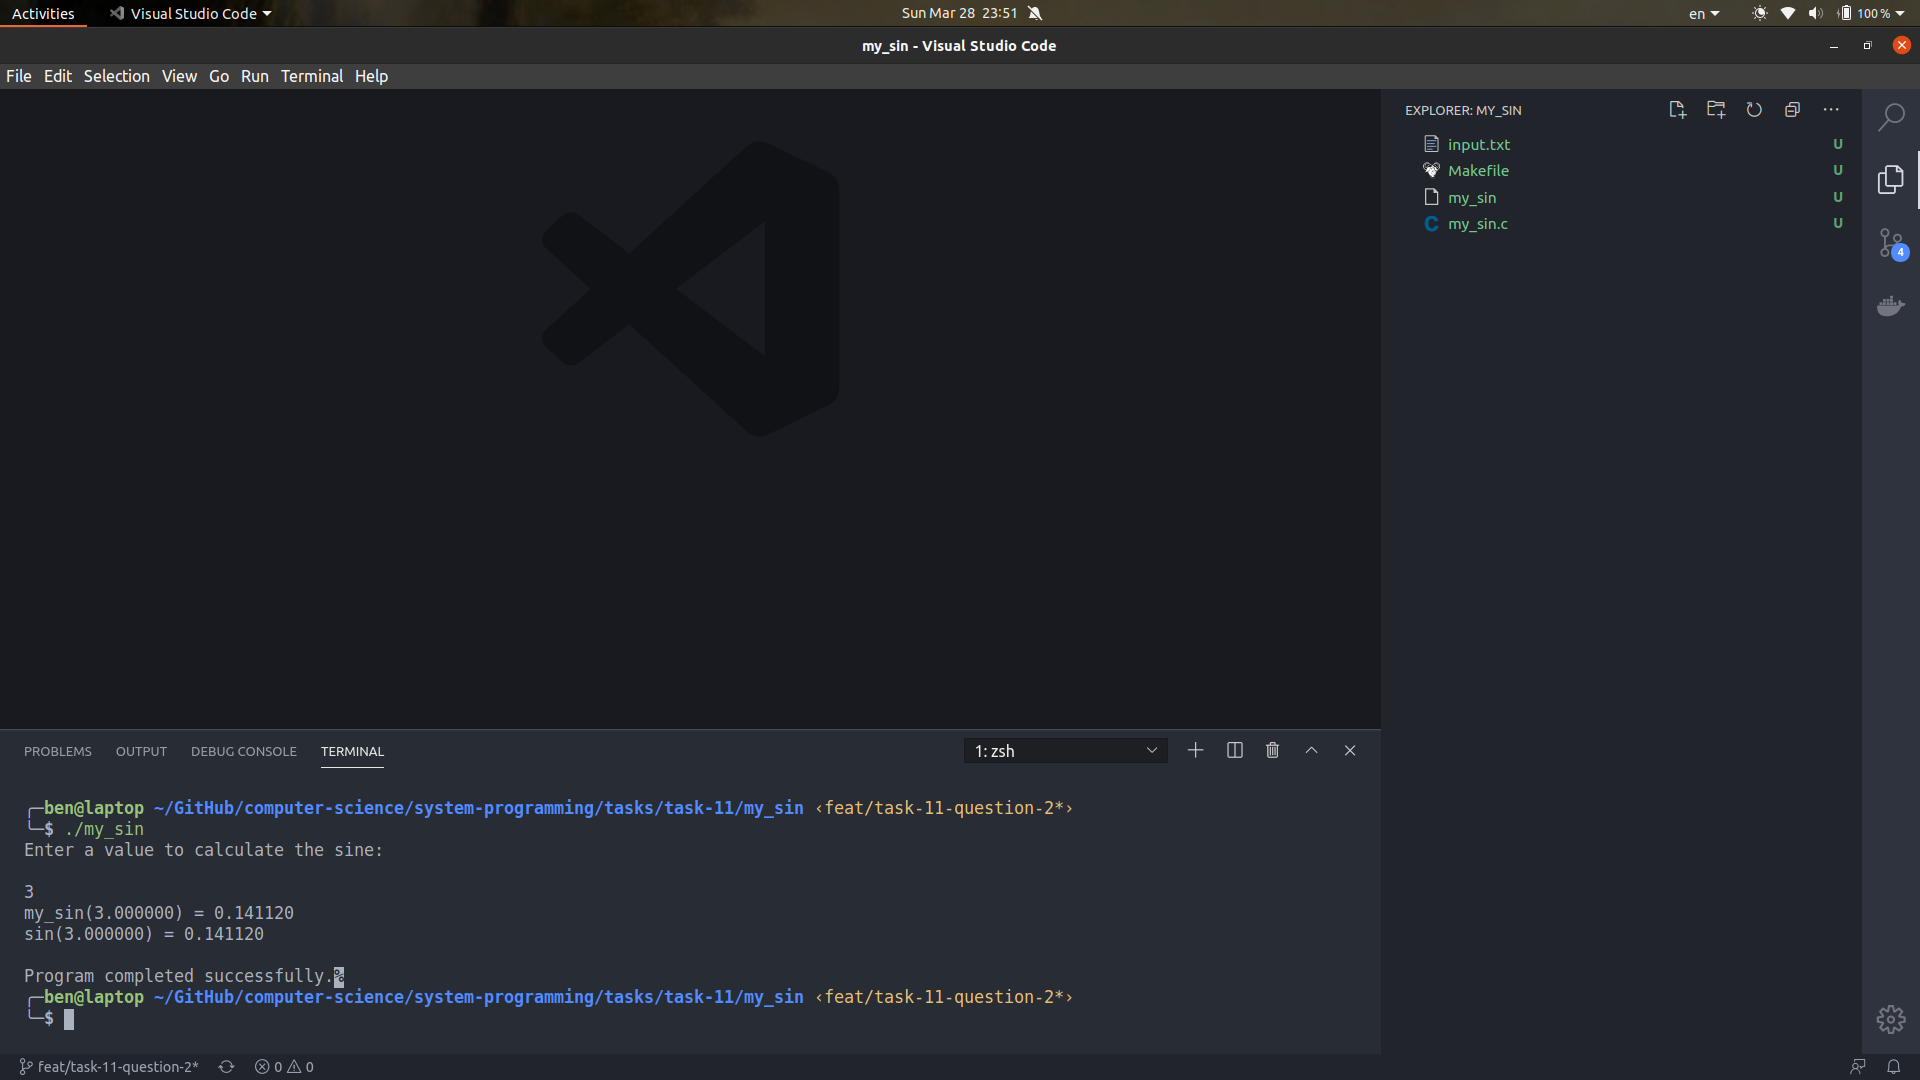
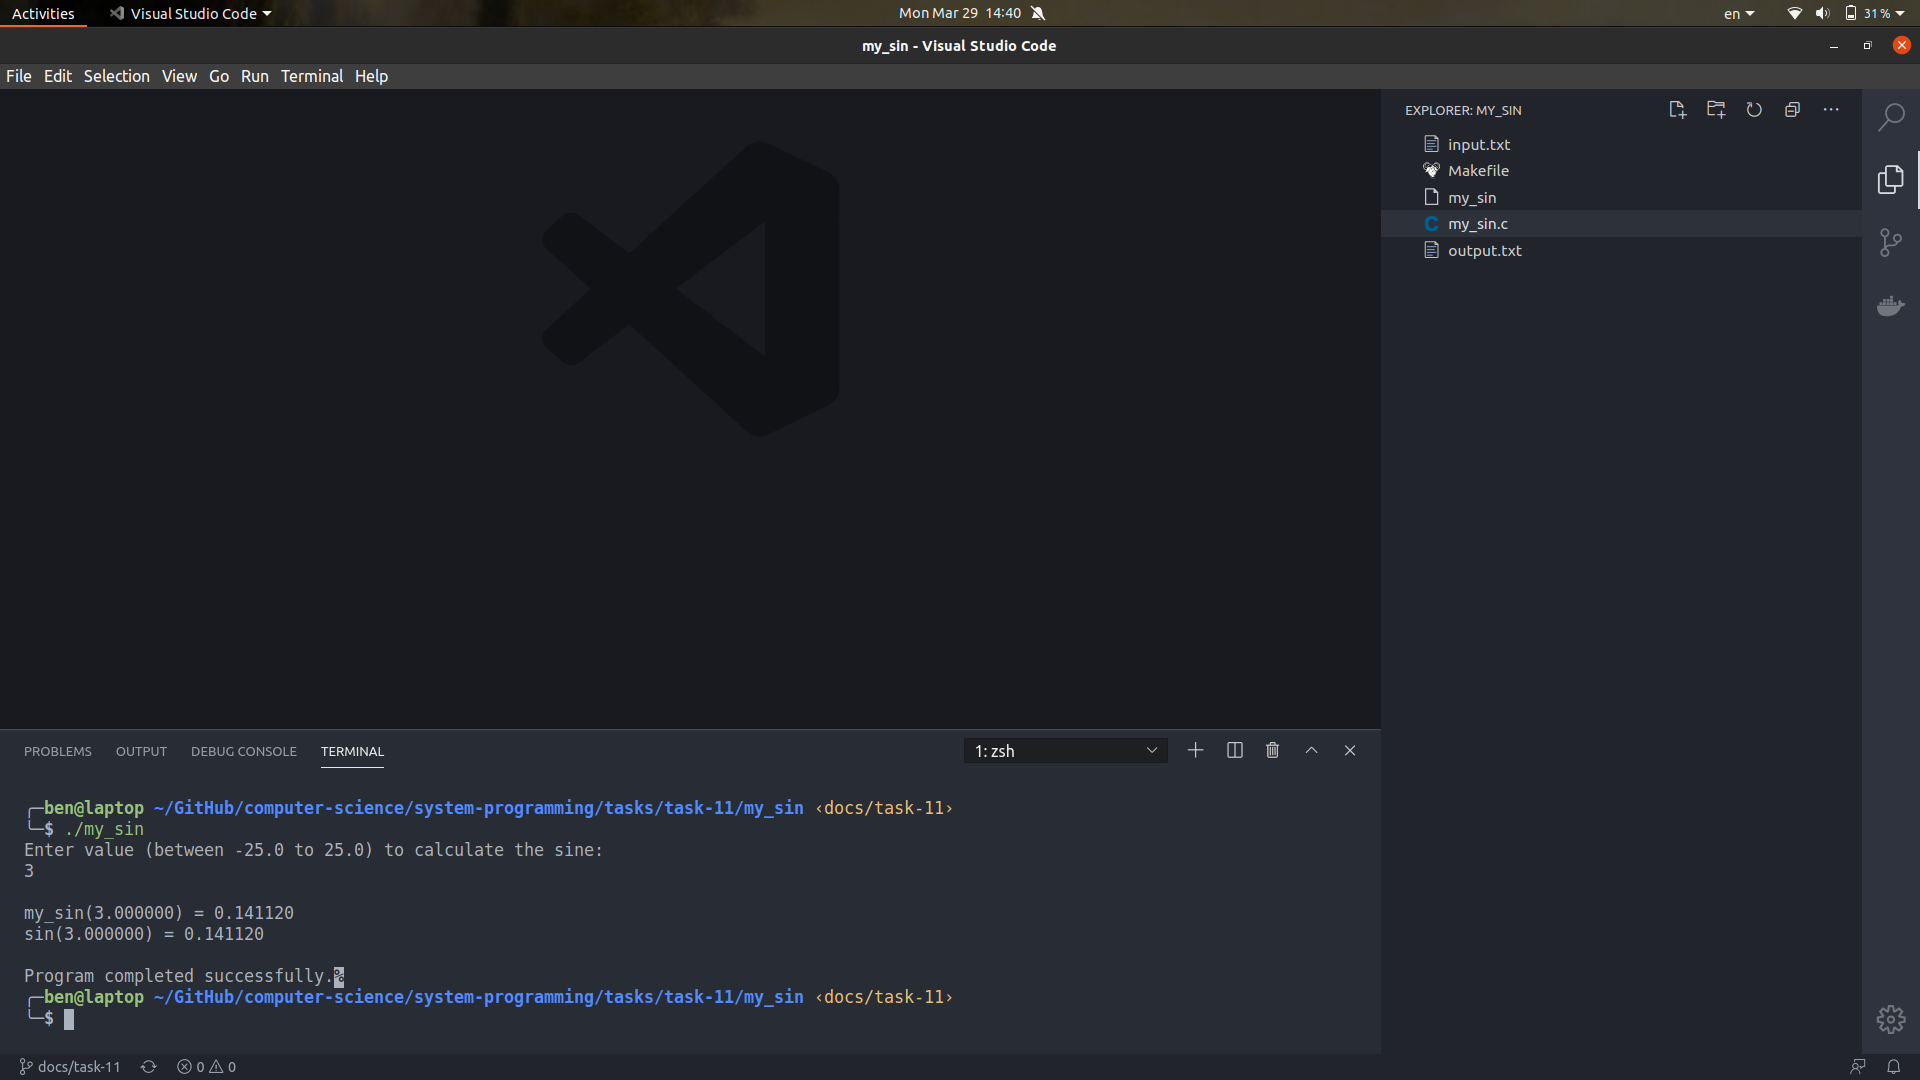
docs: task-11 (#7)
* feat: add program

* src: delete sample program

* feat: add letters program

* chore: update makefile

* feat: add calculate sine program

* chore: add screenshots

* docs: add summaries

* chore: delete old screenshots

* docs: improve outputs

* docs: add new line

* docs: add output

* docs: add screenshots

diff --git a/system-programming/tasks/task-11/my_sin/my_sin.c b/system-programming/tasks/task-11/my_sin/my_sin.c
@@ -5,6 +5,9 @@
 #include <stdio.h>
 #include <math.h>
 
+/*
+ * Returns x factorial as an integer.
+ */
 double factorial(int x)
 {
     int i = 0;
@@ -18,6 +21,9 @@ double factorial(int x)
     return result;
 }
 
+/*
+ * Returns x raised to the power of y.
+ */
 double power(double x, int y)
 {
     int i = 0;
@@ -31,6 +37,9 @@ double power(double x, int y)
     return result;
 }
 
+/*
+ * Returns the sine of a radian angle x.
+ */
 double my_sin(double x)
 {
     int i = 0;
@@ -51,13 +60,19 @@ int main()
 {
     double user_input;
 
-    printf("Enter a value to calculate the sine:\n\n");
+    printf("Enter value (between -25.0 to 25.0) to calculate the sine:\n");
 
     scanf("%lf", &user_input);
 
-    printf("my_sin(%f) = %f\n", user_input, my_sin(user_input));
-    printf("sin(%f) = %f\n", user_input, sin(user_input));
+    if (user_input < -25.0 || user_input > 25.0)
+    {
+        printf("The input value must be between -25.0 and 25.0.");
+        return 0;
+    }
 
-    printf("\nProgram completed successfully.");
+    printf("\nmy_sin(%f) = %f", user_input, my_sin(user_input));
+    printf("\nsin(%f) = %f", user_input, sin(user_input));
+
+    printf("\n\nProgram completed successfully.");
     return 0;
 }
